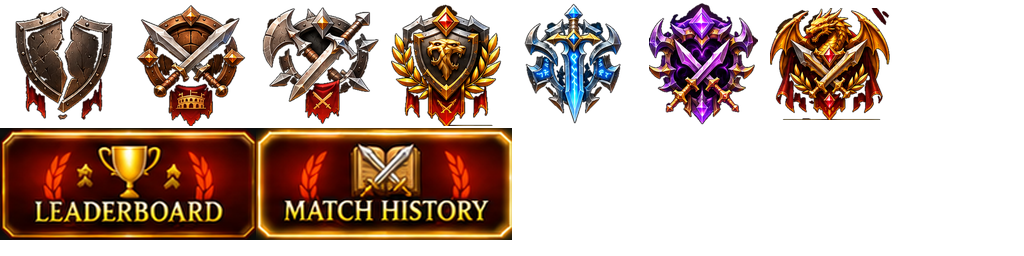
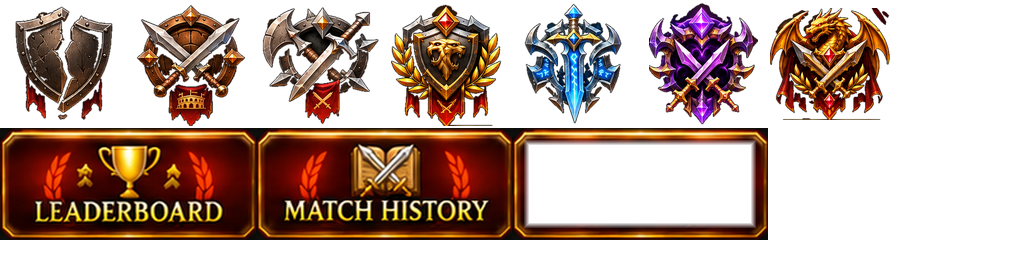
Fix competitive navigation, unify plaque rims and open movable player cards

Changed region(s): [[0.25, 0.5, 0.75, 0.9375]]

diff --git a/tools/community/test_competitive_ui.py b/tools/community/test_competitive_ui.py
@@ -12,8 +12,11 @@ class CompetitiveUI(unittest.TestCase):
         self.assertIn('if item.key=="wargames" then',n)
         self.assertIn('top=top+21',n)
         self.assertIn('ns.CompetitiveUI.Plaque(button,section.key,"ARTWORK",2)',n)
-        self.assertIn('internal = true',n)
-        self.assertIn('not page.internal then ns.Search.Register',n)
+        self.assertNotIn('{ key = "profile", label = "Player Profile"',n)
+        self.assertIn('ns.CompetitiveUI.Plaque(button,"rim","ARTWORK",3)',n)
+        self.assertIn('backButton:SetShown(can or (page and page.competitive) or false)',n)
+        self.assertIn('backButton:SetEnabled(can)',n)
+        self.assertIn('page and page.competitive and page.key~="overview" then Select(1,1,false,false,true)',n)
         self.assertTrue((ADDON/"Media/Skin/DuelCompetitiveAtlas.png").is_file())
     def test_live_widgets_and_isolated_data(self):
         ui=read("UI/CompetitiveUI.lua");p=read("UI/CompetitivePreview.lua")
@@ -30,6 +33,21 @@ class CompetitiveUI(unittest.TestCase):
         toc=read("DuelsReimagined.toc")
         self.assertLess(toc.index("UI\\CompetitivePreview.lua"),toc.index("UI\\CompetitiveUI.lua"))
         self.assertLess(toc.index("UI\\CompetitiveUI.lua"),toc.index("UI\\Navigation.lua"))
+    def test_floating_profile_reuses_native_controls(self):
+        ui=read("UI/CompetitiveUI.lua")
+        widgets=read("UI/Widgets.lua")
+        for token in ('CreateFrame("Frame","DuelsReimaginedPlayerCard",UIParent)',
+                      'card:SetMovable(true)', 'card:SetClampedToScreen(true)',
+                      'card:StartMoving()', 'card:StopMovingOrSizing()',
+                      'ns.Header.CreateCloseButton(card)', 'U.OpenPlayerCard=OpenProfile',
+                      'RemoveSpecial("DuelsReimaginedWindow")',
+                      'ns.Window.frame:HookScript("OnHide",function()card:Hide()end)',
+                      'profileSeason=v;profile.Render()end,card)'):
+            self.assertIn(token,ui)
+        self.assertNotIn('ns.Navigation.SelectKey("leaderboard","profile")',ui)
+        self.assertIn('popup:SetParent(host)',widgets)
+        self.assertIn('ChoiceCatcher(host):Show()',widgets)
+        self.assertIn('local parent=owner or ns.Window.frame',widgets)
     def test_sidebar_compact_geometry(self):
         for h in (400,510,636,850):
             compact=h<590

diff --git a/tools/community/test_window_polish_workspace.py b/tools/community/test_window_polish_workspace.py
@@ -56,7 +56,7 @@ class WindowPolishWorkspaceTests(unittest.TestCase):
         self.assertNotIn('Style.Action(Window.rail, "Back")', nav)
         self.assertIn('close:SetSize(105, 30)', win)
         self.assertIn('Window.closeButton = close', win)
-        self.assertIn('backButton:SetShown(page.key=="profile" or (#history > 0 and (not page.competitive or page.key=="overview")))', nav)
+        self.assertIn('backButton:SetShown(can or (page and page.competitive) or false)', nav)
         self.assertIn('ns.Search.Register("navigation:back", "Back", "Navigation",', nav)
 
     def test_last_workspace_uses_only_central_account_savedvariables(self):
@@ -68,7 +68,7 @@ class WindowPolishWorkspaceTests(unittest.TestCase):
         self.assertIn('math.min(60000, value)', settings)
         self.assertIn('if type(state) ~= "table"', settings)
         self.assertIn('local workspaceReady = false', nav)
-        self.assertIn('ns.Settings.SetWorkspace(section.key, page.internal and "standings" or page.key, page.internal and 0 or offset)', nav)
+        self.assertIn('ns.Settings.SetWorkspace(section.key, page.key, offset)', nav)
         self.assertNotIn('_G.DuelsReimaginedDB', nav)
         self.assertNotIn('navigationHistory', settings)
         self.assertIn('if #history >= 12 then table.remove(history, 1) end', nav)
@@ -78,7 +78,7 @@ class WindowPolishWorkspaceTests(unittest.TestCase):
         self.assertIn('ResumeWorkspace = function()', nav)
         self.assertIn('if workspaceReady then return end', nav)
         self.assertIn('local sectionKey, pageKey, offset = ns.Settings.GetWorkspace()', nav)
-        self.assertIn('scrollMemory[sectionKey .. ":" .. pageKey] = offset', nav)
+        self.assertIn('scrollMemory[sectionKey .. ":" .. page.key] = pageKey=="profile" and 0 or offset', nav)
         self.assertIn('Select(i, j, true, false, true)', nav)
         self.assertIn('Select(1, 1, true)', nav)
         self.assertIn('frame:Show()', win)

diff --git a/tools/community/test_wargames.py b/tools/community/test_wargames.py
@@ -72,11 +72,11 @@ class WarGamesTests(unittest.TestCase):
         self.assertNotIn('menuNext',ui)
         widgets=src("UI/Widgets.lua")
         self.assertIn("function Widgets.ChoiceControl(parent, width)",widgets)
-        self.assertIn("function Widgets.OpenChoices(anchor, choices, selected, onChoose)",widgets)
+        self.assertIn("function Widgets.OpenChoices(anchor, choices, selected, onChoose, owner)",widgets)
         self.assertIn("scrollbar=Widgets.ScrollBar(popup",widgets)
         self.assertIn('choiceCounter = choiceCounter + 1',widgets)
         self.assertIn('row.dot:SetShown(type(status) == "boolean")',widgets)
-        self.assertIn('ChoiceCatcher():Show()',widgets)
+        self.assertIn('ChoiceCatcher(host):Show()',widgets)
 
     def test_tournament_rules_remain_independent_and_match_local(self):
         core=src("Core/WarGames.lua")

diff --git a/tools/community/test_addon_status_ui.py b/tools/community/test_addon_status_ui.py
@@ -24,7 +24,7 @@ class AddonStatusUIContracts(unittest.TestCase):
         nav = read("UI/Navigation.lua")
         self.assertIn('key = "addonstatus", label = "Addon Status", icon = "Community"', nav)
         self.assertIn('key = "status", label = "Addon Status", addonStatus = true', nav)
-        self.assertIn('local primaryKeys = { hall = true, wargames = true }', nav)
+        self.assertIn('local primaryKeys = { hall = true, leaderboard = true, matchhistory = true, wargames = true }', nav)
         self.assertIn('if section.key ~= "patchnotes" and section.key ~= "addonstatus"', nav)
         self.assertIn('if page.addonStatus then return ns.AddonStatus end', nav)
         self.assertIn('local utilityButtons = {}', nav)

diff --git a/tools/community/test_responsive_settings_ui.py b/tools/community/test_responsive_settings_ui.py
@@ -178,7 +178,7 @@ class ResponsiveSettingsTests(unittest.TestCase):
         self.assertIn("local selected, hover = AddOverlay(button, isPrimary)", nav)
         self.assertIn('button:SetScript("OnClick", function() Select(index, 1) end)', nav)
         self.assertIn("ns.Widgets.PressFeedback(button, hover, {", nav)
-        self.assertIn("local primaryKeys = { hall = true, wargames = true }", nav)
+        self.assertIn("local primaryKeys = { hall = true, leaderboard = true, matchhistory = true, wargames = true }", nav)
 
     def test_all_nav_icons_use_fixed_artwork_not_theme_recolored_shapes(self):
         nav = read("UI/Navigation.lua")

diff --git a/tools/community/test_interaction_polish.py b/tools/community/test_interaction_polish.py
@@ -131,7 +131,7 @@ class InteractionPolishTests(unittest.TestCase):
         self.assertIn('not repaintOnly and not isBack', nav)
         self.assertIn('Select(previous.section, previous.page, false, false, true)', nav)
         self.assertIn('for i = #history, 1, -1 do history[i] = nil end', nav)
-        self.assertIn('CanGoBack = function() return #history > 0 end', nav)
+        self.assertIn('CanGoBack = CanReturn,', nav)
         self.assertIn('ns.Search.Register("navigation:back", "Back", "Navigation",', nav)
         self.assertIn('return ns.Navigation.CanGoBack()', nav)
         self.assertNotIn('navigationHistory', settings)

diff --git a/tools/community/test_copper_chrome_interactions.py b/tools/community/test_copper_chrome_interactions.py
@@ -39,7 +39,7 @@ class CopperChromeTests(unittest.TestCase):
         self.assertNotIn('Line(seams, nav, "BOTTOMLEFT", "BOTTOMRIGHT", false, C.goldDim)', ch)
         self.assertNotIn('navSeam:SetShown(nav:IsShown())', ch)
         self.assertNotIn('nav:HookScript("OnHide", function() navSeam:Hide() end)', ch)
-        self.assertIn('Window.nav:SetShown(#section.pages > 1 and section.key ~= "patchnotes")', nav)
+        self.assertIn('Window.nav:SetShown(#section.pages > 1 and section.key ~= "patchnotes" and not page.competitive)', nav)
 
     def test_shared_presses_and_no_new_polling_engine(self):
         w=lua("UI/Widgets.lua")

diff --git a/tools/community/test_premium_polish.py b/tools/community/test_premium_polish.py
@@ -19,7 +19,7 @@ class PremiumPolishTests(unittest.TestCase):
         self.assertIn('button:SetSize(112, 30)', n)
         self.assertIn('icon:SetSize(isPrimary and 48 or 20', n)
         self.assertIn('Window.utility = utility', w)
-        self.assertIn('local primaryKeys = { hall = true, wargames = true }', n)
+        self.assertIn('local primaryKeys = { hall = true, leaderboard = true, matchhistory = true, wargames = true }', n)
         self.assertNotIn('button:SetSize(90, 90)', n)
 
     def test_outer_frame_fills_seam_but_respects_rounded_corners(self):

diff --git a/tools/community/test_patch_notes_layout.py b/tools/community/test_patch_notes_layout.py
@@ -48,7 +48,7 @@ class PatchNotesLayoutTests(unittest.TestCase):
             'railY = railY + (archived and 47 or 67)',
         ):
             self.assertIn(item, PAGE)
-        self.assertIn('Window.nav:SetShown(#section.pages > 1 and section.key ~= "patchnotes")', NAV)
+        self.assertIn('Window.nav:SetShown(#section.pages > 1 and section.key ~= "patchnotes" and not page.competitive)', NAV)
         self.assertIn('for index, release in ipairs(ns.PatchNotesData or {})', NAV)
 
     def test_template_keeps_demo_and_live_release_metadata_distinct(self):

diff --git a/tools/community/test_theme_redesign.py b/tools/community/test_theme_redesign.py
@@ -24,7 +24,7 @@ class ThemeRedesignTests(unittest.TestCase):
         self.assertIn('button:SetSize(112, 30)', n)
         self.assertIn('sub:SetSize(174, 35)', n)
         self.assertIn('local function FitSubTabs(self, width)', n)
-        self.assertIn('Window.nav:SetShown(#section.pages > 1 and section.key ~= "patchnotes")', n)
+        self.assertIn('Window.nav:SetShown(#section.pages > 1 and section.key ~= "patchnotes" and not page.competitive)', n)
         self.assertIn('Window.rail:Hide()', h)
         self.assertIn('Window.rail:Show()', h)
 

diff --git a/tools/community/test_compact_page_density.py b/tools/community/test_compact_page_density.py
@@ -41,7 +41,7 @@ class CompactPageDensityTests(unittest.TestCase):
             'Window.nav:SetScript("OnSizeChanged", FitSubTabs)',
         ):
             self.assertIn(marker, n)
-        self.assertIn("primaryKeys = { hall = true, wargames = true }", n)
+        self.assertIn("primaryKeys = { hall = true, leaderboard = true, matchhistory = true, wargames = true }", n)
         self.assertIn("SetPatchUnread = function(unread)", n)
 
     def test_appearance_fits_compact_window_viewport(self):

diff --git a/docs/COMPETITIVE.md b/docs/COMPETITIVE.md
@@ -279,3 +279,7 @@ Commit 53e553f; Retail Full Scan 16:06:43: 78 PASS, 0 WARN, 0 FAIL, 5 SKIP, 454 
 ## Step 21 — approved main-window visual package
 
 User explicitly approved Hall, Leaderboard, Player Profile, Match History, and revised Warcraft-inspired ranks with broken Unranked shield. Approved artwork is specification, not loose inspiration. User additionally required War Games separated below the three duel destinations. Polestar Theme/Widgets.lua Scroll/Button and docs/DESIGN.md inspected first; existing Duels native style, navigation, dropdown, scrollbar, focus, font and motion owners reused. The new 1024x256 DuelCompetitiveAtlas.png contains separated crop/alpha extraction of the approved two plaques and seven rank emblems, not a screenshot background. Source images generated in this conversation; no external addon media reused. Divisions use live Roman labels over base emblems. Hall rank/season panel, recent activity, leaderboard preview and chart; searchable sorted/paginated leaderboard, season selector and own standing; internal player detail, chart, season history and opponent preview; personal history filters, sortable columns, pooled scrolling and expandable rows. War Games remains Retail gated; compact sidebar adapts to height; profile persists only its parent leaderboard workspace. No permanent animation or poller. Clearly labeled deterministic SIMULATED preview uses canonical replay and personal history, private roots; no real ratings, identities, gameplay, network or settings changes beyond existing workspace state. Actual numbers differ from illustrative artwork. No production calendar, live integration, storage policy changes, notifications or rank promotion animations. Atlas blob verified against local Git SHA. UI geometry, render, typography, rank-art small-size readability, precise concept fidelity and live behavior still require in-game review. Existing tests revised only for approved changed navigation contracts; additional static and mocked runtime checks. No core competitive fingerprint changes. CI and user visual test pending.
+
+## Step 21b — approved combined visual corrections
+
+User reviewed actual Retail screenshots: liked the main layouts; requested the existing shared Back control on every new page, consistent plaque framing, restored War Games lower edge, and approved replacing the full-page player profile with one independently movable floating Player Card. Polestar Theme/Widgets.lua Shell and existing Diagnostics window inspected. No competitive engine, simulation fixture or rating change. Shared Back history still session-only; direct/resumed leaderboard/history fall back to Hall, Hall Back visible but disabled without history, existing profile workspace migrates to standings. No profile route/search entry remains. Floating UIParent sibling (800x590, downscaled if screen requires) reuses approved profile widgets, copper shell, native close, header drag, existing shared season menu and one card instance. Clicking another player updates it; opening never calls navigation, preserving page/filter/scroll. Close main also closes card; transient position retained within session only. On open/close only our own main special-frame registration is temporarily replaced/restored to aim for Escape dismissing card first; no keyboard capture or global override; real client Escape priority remains to verify. Shared dropdown/catcher supports an explicit host and defaults to original main host for all previous callers. Diagnostic audit includes the sibling card root. Atlas rank cells unchanged; Match History edge blended from existing Leaderboard rim; War Games retains existing coliseum art inset under a complete matching rim extracted into atlas slot 3. No source/master War Games file changed. Actual in-game visual alignment and Esc remain unverified. Simulated preview intentionally retained, no real data written. Previous UI CI 45417248706 passed Lua runtime but failed ten obsolete static expectations; updated navigation contract tests including legacy references, extended mocked card lifecycle/navigation/registration test. CI pending.
